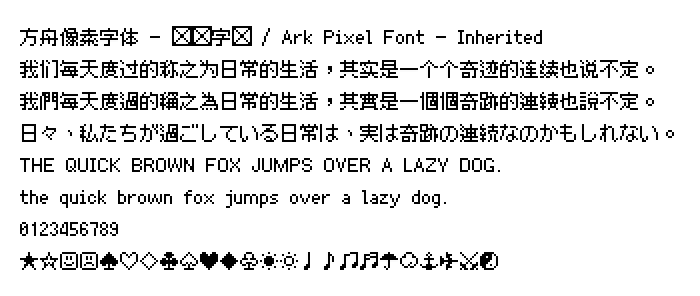
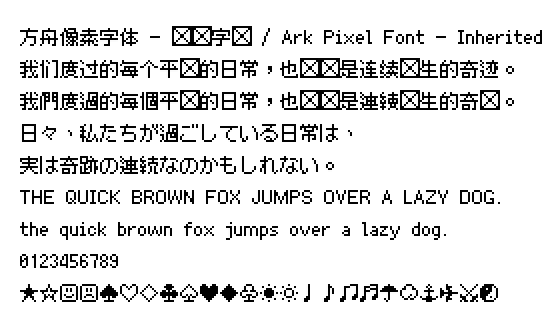
调整示例文案

Changed region(s): [[0.0304, 0.0608, 0.9714, 0.8209], [0.0304, 0.8514, 0.9107, 0.9426], [0.8196, 0.0912, 0.9714, 0.152]]

diff --git a/assets/templates/index.html b/assets/templates/index.html
@@ -137,8 +137,8 @@
             <a class="link-tab" href="https://discord.gg/3GKtPKtjdU" target="_blank">discord</a>
         </div>
         <br>
-        <div class="text">我们每天度过的称之为日常的生活，其实是一个个奇迹的连续也说不定。</div>
-        <div class="text">我們每天度過的稱之為日常的生活，其實是一個個奇跡的連續也說不定。</div>
+        <div class="text">我们度过的每个平凡的日常，也许就是连续发生的奇迹。</div>
+        <div class="text">我們度過的每個平凡的日常，也許就是連續發生的奇蹟。</div>
         <div class="text">日々、私たちが過ごしている日常は、実は奇跡の連続なのかもしれない。</div>
         <div class="text">THE QUICK BROWN FOX JUMPS OVER A LAZY DOG.</div>
         <div class="text">the quick brown fox jumps over a lazy dog.</div>

diff --git a/services/image_service.py b/services/image_service.py
@@ -46,15 +46,16 @@ def _draw_text(
 def make_preview_image_file(font_config: FontConfig):
     font = _load_font(font_config, 'proportional')
 
-    image = Image.new('RGBA', (font_config.size * 35, font_config.size * 2 + font_config.line_height * 8), (255, 255, 255, 255))
+    image = Image.new('RGBA', (font_config.size * 28, font_config.size * 2 + font_config.line_height * 9), (255, 255, 255, 255))
     _draw_text(image, (font_config.size, font_config.size), '方舟像素字体 - 传承字形 / Ark Pixel Font - Inherited', font)
-    _draw_text(image, (font_config.size, font_config.size + font_config.line_height), '我们每天度过的称之为日常的生活，其实是一个个奇迹的连续也说不定。', font)
-    _draw_text(image, (font_config.size, font_config.size + font_config.line_height * 2), '我們每天度過的稱之為日常的生活，其實是一個個奇跡的連續也說不定。', font)
-    _draw_text(image, (font_config.size, font_config.size + font_config.line_height * 3), '日々、私たちが過ごしている日常は、実は奇跡の連続なのかもしれない。', font)
-    _draw_text(image, (font_config.size, font_config.size + font_config.line_height * 4), 'THE QUICK BROWN FOX JUMPS OVER A LAZY DOG.', font)
-    _draw_text(image, (font_config.size, font_config.size + font_config.line_height * 5), 'the quick brown fox jumps over a lazy dog.', font)
-    _draw_text(image, (font_config.size, font_config.size + font_config.line_height * 6), '0123456789', font)
-    _draw_text(image, (font_config.size, font_config.size + font_config.line_height * 7), '★☆☺☹♠♡♢♣♤♥♦♧☀☼♩♪♫♬☂☁⚓✈⚔☯', font)
+    _draw_text(image, (font_config.size, font_config.size + font_config.line_height), '我们度过的每个平凡的日常，也许就是连续发生的奇迹。', font)
+    _draw_text(image, (font_config.size, font_config.size + font_config.line_height * 2), '我們度過的每個平凡的日常，也許就是連續發生的奇蹟。', font)
+    _draw_text(image, (font_config.size, font_config.size + font_config.line_height * 3), '日々、私たちが過ごしている日常は、', font)
+    _draw_text(image, (font_config.size, font_config.size + font_config.line_height * 4), '実は奇跡の連続なのかもしれない。', font)
+    _draw_text(image, (font_config.size, font_config.size + font_config.line_height * 5), 'THE QUICK BROWN FOX JUMPS OVER A LAZY DOG.', font)
+    _draw_text(image, (font_config.size, font_config.size + font_config.line_height * 6), 'the quick brown fox jumps over a lazy dog.', font)
+    _draw_text(image, (font_config.size, font_config.size + font_config.line_height * 7), '0123456789', font)
+    _draw_text(image, (font_config.size, font_config.size + font_config.line_height * 8), '★☆☺☹♠♡♢♣♤♥♦♧☀☼♩♪♫♬☂☁⚓✈⚔☯', font)
     image = image.resize((image.width * 2, image.height * 2), Image.NEAREST)
 
     fs_util.make_dirs(path_define.outputs_dir)
